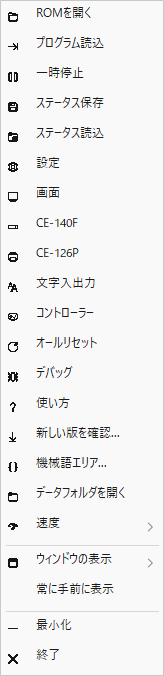
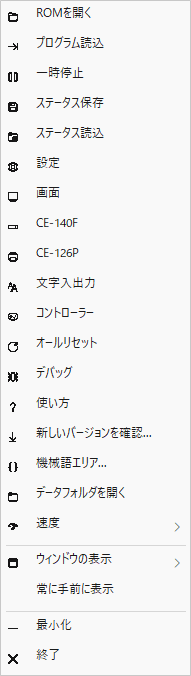
Screens say バージョン, not 版
The new-version button, notice, menu item, setting and messages, on Windows
and Ubuntu, and the documents that quote them. The notice and right-click
menu pictures of the manual are made again.

diff --git a/src/avalonia/Windows.cs b/src/avalonia/Windows.cs
@@ -15,7 +15,7 @@ internal sealed class SettingsWindow : AppWindow
     readonly TextBox cardPath=new(){Width=380,IsReadOnly=true},folder=new(){Width=470};
     readonly CheckBox disk=new(){Content=L.T("CE-140Fを接続 (X:)","Connect CE-140F (X:)")},protect=new(){Content=L.T("ディスクを書込み禁止にする","Write-protect the disk")},
         muted=new(){Content=L.T("消音","Mute")},autoOff=new(){Content=L.T("自動電源OFF（実機と同じ）","Auto power off (as the real one)")},topMost=new(){Content=L.T("常に手前に表示","Always on top")},
-        checkUpdates=new(){Content=L.T("起動時に新しい版を確認する（1日に1回）","Check for a new version at start-up (once a day)")};
+        checkUpdates=new(){Content=L.T("起動時に新しいバージョンを確認する（1日に1回）","Check for a new version at start-up (once a day)")};
     readonly NumericUpDown volume=new(){Minimum=0,Maximum=100,Width=130,FormatString="0",Increment=5};
     readonly TextBlock ramNote=Ui.Note("",560);
     /// <summary>「適用」で呼ぶ処理。引数は今の設定にウィンドウの値を重ねる関数。false を返すとウィンドウを閉じない。</summary>
@@ -207,13 +207,13 @@ internal sealed class UpdateWindow : AppWindow
 {
     /// <summary>「この版は通知しない」を押したか。</summary>
     internal bool Skip {get;private set;}
-    internal UpdateWindow(Release release) : base(L.T("新しい版のお知らせ","New version"),620,480) {
-        var heading=Ui.Heading(L.T($"新しい版 {release.Tag} が公開されています（今の版は {UpdateCheck.Current}）。",$"Version {release.Tag} is out (this is {UpdateCheck.Current})."));heading.Margin=new Thickness(0,0,0,10);
+    internal UpdateWindow(Release release) : base(L.T("新しいバージョンのお知らせ","New version"),620,480) {
+        var heading=Ui.Heading(L.T($"新しいバージョン {release.Tag} が公開されています（今のバージョンは {UpdateCheck.Current}）。",$"Version {release.Tag} is out (this is {UpdateCheck.Current})."));heading.Margin=new Thickness(0,0,0,10);
         var notes=new TextBox{IsReadOnly=true,AcceptsReturn=true,TextWrapping=TextWrapping.Wrap,BorderThickness=new Thickness(0),Text=(release.Notes.Length>0?release.Notes:release.Name).Replace("\r\n","\n")};
         var how=Ui.Note(L.T("更新：エミュレータを終了して、ダウンロードしたものを今のフォルダに上書きで展開します。ROM・RAM・設定はそのまま残ります。","To update: quit the emulator and unpack the download over its folder. ROMs, RAM and settings stay."));how.Margin=new Thickness(0,8,0,0);
         var body=new DockPanel();DockPanel.SetDock(heading,Dock.Top);DockPanel.SetDock(how,Dock.Bottom);body.Children.AddRange([heading,how,Ui.CardOf(L.T("変更点","Changes"),notes)]);
         var open=Ui.Button(L.T("ダウンロードのページを開く","Open the download page"),async ()=>{try{UpdateCheck.Open(release.Url);Close();}catch(Exception ex){await Ask.Message(this,ex.Message);}},true);open.IsDefault=true;
-        Fill(body,Ui.Footer(null,open,Ui.Button(L.T("この版は通知しない","Skip this version"),()=>{Skip=true;Close();}),Ui.Button(L.T("閉じる","Close"),Close)));
+        Fill(body,Ui.Footer(null,open,Ui.Button(L.T("このバージョンは通知しない","Skip this version"),()=>{Skip=true;Close();}),Ui.Button(L.T("閉じる","Close"),Close)));
     }
 }
 

diff --git a/src/desktop/Program.cs b/src/desktop/Program.cs
@@ -333,7 +333,7 @@ internal sealed class MainForm : Form
             menu.Items.Add(item);
         }
         menu.Items.Insert(0,updateItem);
-        menu.Items.Add(L.T("新しい版を確認...","Check for a new version..."),MenuIcon(Theme.Icons.Download),(_,_)=>_=CheckForUpdate(true));
+        menu.Items.Add(L.T("新しいバージョンを確認...","Check for a new version..."),MenuIcon(Theme.Icons.Download),(_,_)=>_=CheckForUpdate(true));
         menu.Items.Add(L.T("機械語エリア...","Machine-code area..."),MenuIcon(Theme.Icons.Code),(_,_)=>TryAction(ShowMachineCode));
         menu.Items.Add(L.T("データフォルダを開く","Open the data folder"),MenuIcon(Theme.Icons.Folder),(_,_)=>TryAction(()=>System.Diagnostics.Process.Start(new System.Diagnostics.ProcessStartInfo(AppFolders.Prepare(root)){UseShellExecute=true})));
         var speedMenu=new ToolStripMenuItem(L.T("速度","Speed"),MenuIcon(Theme.Icons.Speed));
@@ -372,13 +372,13 @@ internal sealed class MainForm : Form
         Release? release;
         try {release=await UpdateCheck.FetchAsync();}
         catch(Exception ex) {
-            if(manual && !IsDisposed)MessageBox.Show(this,L.T("新しい版を確認できませんでした。\n","Could not check for a new version.\n")+ex.Message,"PC-E500",MessageBoxButtons.OK,MessageBoxIcon.Warning);
+            if(manual && !IsDisposed)MessageBox.Show(this,L.T("新しいバージョンを確認できませんでした。\n","Could not check for a new version.\n")+ex.Message,"PC-E500",MessageBoxButtons.OK,MessageBoxIcon.Warning);
             return;
         }
         if(IsDisposed)return;
         settings=settings with{UpdateCheckedAt=DateTime.UtcNow};SaveSettings();
         if(release is null || !UpdateCheck.IsNewer(release)) {
-            if(manual)MessageBox.Show(this,L.T($"最新の版です（{UpdateCheck.Current}）。",$"This is the latest version ({UpdateCheck.Current})."),"PC-E500",MessageBoxButtons.OK,MessageBoxIcon.Information);
+            if(manual)MessageBox.Show(this,L.T($"最新のバージョンです（{UpdateCheck.Current}）。",$"This is the latest version ({UpdateCheck.Current})."),"PC-E500",MessageBoxButtons.OK,MessageBoxIcon.Information);
             return;
         }
         ShowUpdate(release,manual);
@@ -389,8 +389,8 @@ internal sealed class MainForm : Form
     void ShowUpdate(Release release,bool manual) {
         if(!manual && release.Tag==settings.SkippedUpdate)return;
         available=release;
-        updateNotice.Text=L.T($"新しい版 {release.Tag}",$"New version {release.Tag}");updateNotice.Visible=true;
-        updateItem.Text=L.T($"新しい版 {release.Tag} があります...",$"Version {release.Tag} is out...");updateItem.Available=true;
+        updateNotice.Text=L.T($"新しいバージョン {release.Tag}",$"New version {release.Tag}");updateNotice.Visible=true;
+        updateItem.Text=L.T($"新しいバージョン {release.Tag} があります...",$"Version {release.Tag} is out...");updateItem.Available=true;
         if(manual)OpenUpdate();
     }
     /// <summary>新しい版のお知らせを開く。</summary>

diff --git a/src/avalonia/MainWindow.cs b/src/avalonia/MainWindow.cs
@@ -164,10 +164,10 @@ internal sealed class MainWindow : Window
         }
         MenuItem Sub(string text,string icon,IEnumerable<MenuItem> items){var m=new MenuItem{Header=text,Icon=Ui.Icon(icon,15)};foreach(var i in items)m.Items.Add(i);return m;}
         menu.Items.Clear();
-        if(available is not null)menu.Items.Add(Item(L.T($"新しい版 {available.Tag}",$"New version {available.Tag}"),Icons.Download,()=>_=OpenUpdate()));
+        if(available is not null)menu.Items.Add(Item(L.T($"新しいバージョン {available.Tag}",$"New version {available.Tag}"),Icons.Download,()=>_=OpenUpdate()));
         foreach(var c in commands)menu.Items.Add(c.Pause?Item(paused?L.T("再開","Resume"):c.Text,paused?Icons.Play:c.Icon,c.Action):Item(c.Text,c.Icon,c.Action));
         menu.Items.Add(new Separator());
-        menu.Items.Add(Item(L.T("新しい版を確認...","Check for a new version..."),Icons.Download,()=>_=CheckForUpdate(true)));
+        menu.Items.Add(Item(L.T("新しいバージョンを確認...","Check for a new version..."),Icons.Download,()=>_=CheckForUpdate(true)));
         menu.Items.Add(Item(L.T("機械語エリア...","Machine-code area..."),Icons.Code,()=>Try(ShowMachineCode)));
         menu.Items.Add(Item(L.T("データフォルダを開く","Open the data folder"),Icons.Folder,()=>Try(()=>Ui.Launch(root))));
         menu.Items.Add(Sub(L.T("速度","Speed"),Icons.Speed,Speeds.Select((s,i)=>Item(s,null,()=>SetSpeed(i),speedIndex==i))));
@@ -304,15 +304,15 @@ internal sealed class MainWindow : Window
     async Task CheckForUpdate(bool manual) {
         Release? release;
         try{release=await UpdateCheck.FetchAsync();}
-        catch(Exception ex){if(manual)await Ask.Message(this,L.T("新しい版を確認できませんでした。\n","Could not check for a new version.\n")+ex.Message);return;}
+        catch(Exception ex){if(manual)await Ask.Message(this,L.T("新しいバージョンを確認できませんでした。\n","Could not check for a new version.\n")+ex.Message);return;}
         settings=settings with{UpdateCheckedAt=DateTime.UtcNow};SaveSettings();
         if(release is null || !UpdateCheck.IsNewer(release)) {
-            if(manual)await Ask.Message(this,L.T($"最新の版です（{UpdateCheck.Current}）。",$"This is the latest version ({UpdateCheck.Current})."));
+            if(manual)await Ask.Message(this,L.T($"最新のバージョンです（{UpdateCheck.Current}）。",$"This is the latest version ({UpdateCheck.Current})."));
             return;
         }
         if(!manual && release.Tag==settings.SkippedUpdate)return;
         available=release;
-        if(updateNotice?.Content is StackPanel row && row.Children[1] is TextBlock label){label.Text=L.T($"新しい版 {release.Tag}",$"New version {release.Tag}");updateNotice.IsVisible=true;}
+        if(updateNotice?.Content is StackPanel row && row.Children[1] is TextBlock label){label.Text=L.T($"新しいバージョン {release.Tag}",$"New version {release.Tag}");updateNotice.IsVisible=true;}
         if(manual)await OpenUpdate();
     }
     async Task OpenUpdate() {

diff --git a/src/desktop/UpdateCheck.cs b/src/desktop/UpdateCheck.cs
@@ -11,10 +11,10 @@ internal sealed class UpdateDialog : ThemedForm
     /// <param name="installed">インストール版か（更新のしかたの案内が変わる）</param>
     internal UpdateDialog(Release release,bool installed=false)
     {
-        Text=L.T("新しい版のお知らせ","New version");FormBorderStyle=FormBorderStyle.FixedDialog;MaximizeBox=MinimizeBox=false;ShowInTaskbar=false;
+        Text=L.T("新しいバージョンのお知らせ","New version");FormBorderStyle=FormBorderStyle.FixedDialog;MaximizeBox=MinimizeBox=false;ShowInTaskbar=false;
         StartPosition=FormStartPosition.CenterParent;Font=Fonts.Ui;ClientSize=new Size(620,480);
         var body=new Panel{Dock=DockStyle.Fill,Padding=new Padding(16,16,16,8)};
-        var heading=new Label{Text=L.T($"新しい版 {release.Tag} が公開されています（今の版は {UpdateCheck.Current}）。",$"Version {release.Tag} is out (this is {UpdateCheck.Current})."),Dock=DockStyle.Top,Height=30,Font=Fonts.UiBold};
+        var heading=new Label{Text=L.T($"新しいバージョン {release.Tag} が公開されています（今のバージョンは {UpdateCheck.Current}）。",$"Version {release.Tag} is out (this is {UpdateCheck.Current})."),Dock=DockStyle.Top,Height=30,Font=Fonts.UiBold};
         var card=new CardPanel{Title=L.T("変更点","Changes"),Dock=DockStyle.Fill};
         var notes=new TextBox{Text=release.Notes.Length>0?release.Notes:release.Name,Multiline=true,ReadOnly=true,ScrollBars=ScrollBars.Vertical,Dock=DockStyle.Fill,BorderStyle=BorderStyle.None};
         card.Controls.Add(notes);
@@ -26,7 +26,7 @@ internal sealed class UpdateDialog : ThemedForm
         body.Controls.Add(card);body.Controls.Add(howLabel);body.Controls.Add(heading);
         var footer=new FooterBar();
         var close=footer.Add(L.T("閉じる","Close"),(_,_)=>Close(),DialogResult.Cancel);
-        var skip=footer.Add(L.T("この版は通知しない","Skip this version"));
+        var skip=footer.Add(L.T("このバージョンは通知しない","Skip this version"));
         var open=footer.Add(L.T("ダウンロードのページを開く","Open the download page"));
         Controls.Add(body);Controls.Add(footer);
         open.Click+=(_,_)=>{try{UpdateCheck.Open(release.Url);Close();}catch(Exception ex){MessageBox.Show(ex.Message,"PC-E500",MessageBoxButtons.OK,MessageBoxIcon.Error);}};

diff --git a/src/desktop/SmokeTest.cs b/src/desktop/SmokeTest.cs
@@ -98,7 +98,7 @@ internal static class SmokeTest
                     if(form.TestUpdateNotice.Visible || form.TestUpdateNotice.InMenu || form.TestSettings.SkippedUpdate!="v99.1.2")throw new Exception("Skipped update still announced");
                     form.TestShowUpdate(newer);
                     if(form.TestUpdateNotice.Visible)throw new Exception("A skipped version was announced again");
-                    if(!menuTexts.Contains(L.T("新しい版を確認...","Check for a new version...")))throw new Exception("No way to check for a new version from the menu");
+                    if(!menuTexts.Contains(L.T("新しいバージョンを確認...","Check for a new version...")))throw new Exception("No way to check for a new version from the menu");
                 }
                 // A double-click on a key is two keystrokes, not a change of window.
                 var five=surface.Keys.First(k=>k.Id=="5").Bounds;
@@ -215,7 +215,7 @@ internal static class SmokeTest
                 string newer=Path.Combine(output,"newer.e500state");
                 File.WriteAllText(newer,json.Replace("\"Version\":4","\"Version\":5",StringComparison.Ordinal));
                 try{core.Load(newer);throw new Exception("A newer state file was loaded");}
-                catch(InvalidDataException ex) when(ex.Message.Contains(L.T("新しい版","newer version"),StringComparison.Ordinal)){}
+                catch(InvalidDataException ex) when(ex.Message.Contains(L.T("新しいバージョン","newer version"),StringComparison.Ordinal)){}
             }
             if(!form.TestPaste("2+3\r\n").Contains("4文字"))throw new Exception("Clipboard-style paste queue failed");
             if(!core.ScreenText().Contains('5'))throw new Exception("Pasted calculation did not reach LCD");

diff --git a/src/shared/Core.cs b/src/shared/Core.cs
@@ -275,7 +275,7 @@ internal sealed class Core : IDisposable
         // ファイルの形式・ROM・中身のハッシュを確かめる。
         var state=JsonSerializer.Deserialize<SavedState>(File.ReadAllText(path));
         if(state is not null && state.Version>CurrentVersion)
-            throw new InvalidDataException(L.T("保存ファイルは新しい版のエミュレータで作られています。","The state file was made by a newer version of the emulator."));
+            throw new InvalidDataException(L.T("保存ファイルは新しいバージョンのエミュレータで作られています。","The state file was made by a newer version of the emulator."));
         if(state is null || state.Version<1 || state.RomSha256!=Hash || state.Data is null ||
            state.DataSha256!=Convert.ToHexString(SHA256.HashData(state.Data)))
             throw new InvalidDataException(L.T("保存ファイルが不正、またはROMが異なります。","The state file is invalid or belongs to another ROM."));

diff --git a/src/desktop/HardwareSettings.cs b/src/desktop/HardwareSettings.cs
@@ -16,7 +16,7 @@ internal sealed class HardwareDialog : ThemedForm
     readonly CheckBox muted=new(){Text=L.T("消音","Mute"),AutoSize=true};
     readonly CheckBox autoOff=new(){Text=L.T("自動電源OFF（実機と同じ）","Auto power off (as the real one)"),AutoSize=true};
     readonly CheckBox topMost=new(){Text=L.T("常に手前に表示","Always on top"),AutoSize=true};
-    readonly CheckBox checkUpdates=new(){Text=L.T("起動時に新しい版を確認する（1日に1回）","Check for a new version at start-up (once a day)"),AutoSize=true};
+    readonly CheckBox checkUpdates=new(){Text=L.T("起動時に新しいバージョンを確認する（1日に1回）","Check for a new version at start-up (once a day)"),AutoSize=true};
     readonly NumericUpDown volume=new(){Minimum=0,Maximum=100,Width=85};
     readonly TextBox folder=new(){Width=470};
     // Called by the apply button. The dialog is modeless, so there is no

diff --git a/src/desktop/DemoVideo.cs b/src/desktop/DemoVideo.cs
@@ -232,7 +232,7 @@ internal static class DemoVideo
                 g.DrawString("PokeCom",TitleFont,accent,new RectangleF(0,250,W,140),center);
                 using var text=new SolidBrush(Color.FromArgb(40,40,48));
                 g.DrawString("PC-E500 エミュレータ",TitleSub,text,new RectangleF(0,390,W,70),center);
-                g.DrawString(version.Length>0?$"v{version} の紹介":"新しい版の紹介",TitleSub,text,new RectangleF(0,460,W,70),center);
+                g.DrawString(version.Length>0?$"v{version} の紹介":"新しいバージョンの紹介",TitleSub,text,new RectangleF(0,460,W,70),center);
             } else {
                 using var accent=new SolidBrush(Accent);
                 g.DrawString(version.Length>0?$"PokeCom v{version} をぜひ使ってみてね":"PokeCom をぜひ使ってみてね",TitleFont,accent,new RectangleF(0,280,W,140),center);

diff --git a/docs/manual/01_WINDOWS.md b/docs/manual/01_WINDOWS.md
@@ -31,7 +31,7 @@
 
 起動したとき、1日に1回まで GitHub の[リリース](https://github.com/litchi-gh/pc-e500_emulator_pockecom/releases)に新しいバージョンが出ていないかを問い合わせ、あればツールバーと右クリックのメニューで知らせます。ダウンロードや置き換えはしません。更新するときは、エミュレータを終了してから、インストーラーで入れた場合は新しい `-setup.exe` を実行し、zip の場合は中身を今の `PC-E500.exe` があるフォルダに上書きで展開してください。どちらでもデータはそのまま残ります。
 
-GitHub の公開 API（`api.github.com`）へは、アカウントなしで問い合わせます。送るのは今のバージョンの番号（User-Agent）だけです。自動の確認は「設定」の「起動時に新しい版を確認する」で止められ、右クリックのメニューの「新しい版を確認...」でいつでも確認できます。
+GitHub の公開 API（`api.github.com`）へは、アカウントなしで問い合わせます。送るのは今のバージョンの番号（User-Agent）だけです。自動の確認は「設定」の「起動時に新しいバージョンを確認する」で止められ、右クリックのメニューの「新しいバージョンを確認...」でいつでも確認できます。
 
 ---
 

diff --git a/docs/manual/02_LINUX.md b/docs/manual/02_LINUX.md
@@ -115,7 +115,7 @@ cp ~/'PC-E500(7.2).ROM' ~/.local/share/PockeComE500/rom/
 
 ## 更新とアンインストール
 
-新しいバージョンが出ると、ツールバーに「新しい版」のボタンが出ます。エミュレータを終了してから、[入れかた](#入れかた)の1行をもう一度実行します（`--deb` で入れたときは `--deb` を付けます）。ROM・RAM・設定はそのまま残ります。
+新しいバージョンが出ると、ツールバーに「新しいバージョン」のボタンが出ます。エミュレータを終了してから、[入れかた](#入れかた)の1行をもう一度実行します（`--deb` で入れたときは `--deb` を付けます）。ROM・RAM・設定はそのまま残ります。
 
 消すときは、次のようにします。`--deb` なしで入れたときはデータも消えるので、ROM などを先に移してから実行してください。
 
